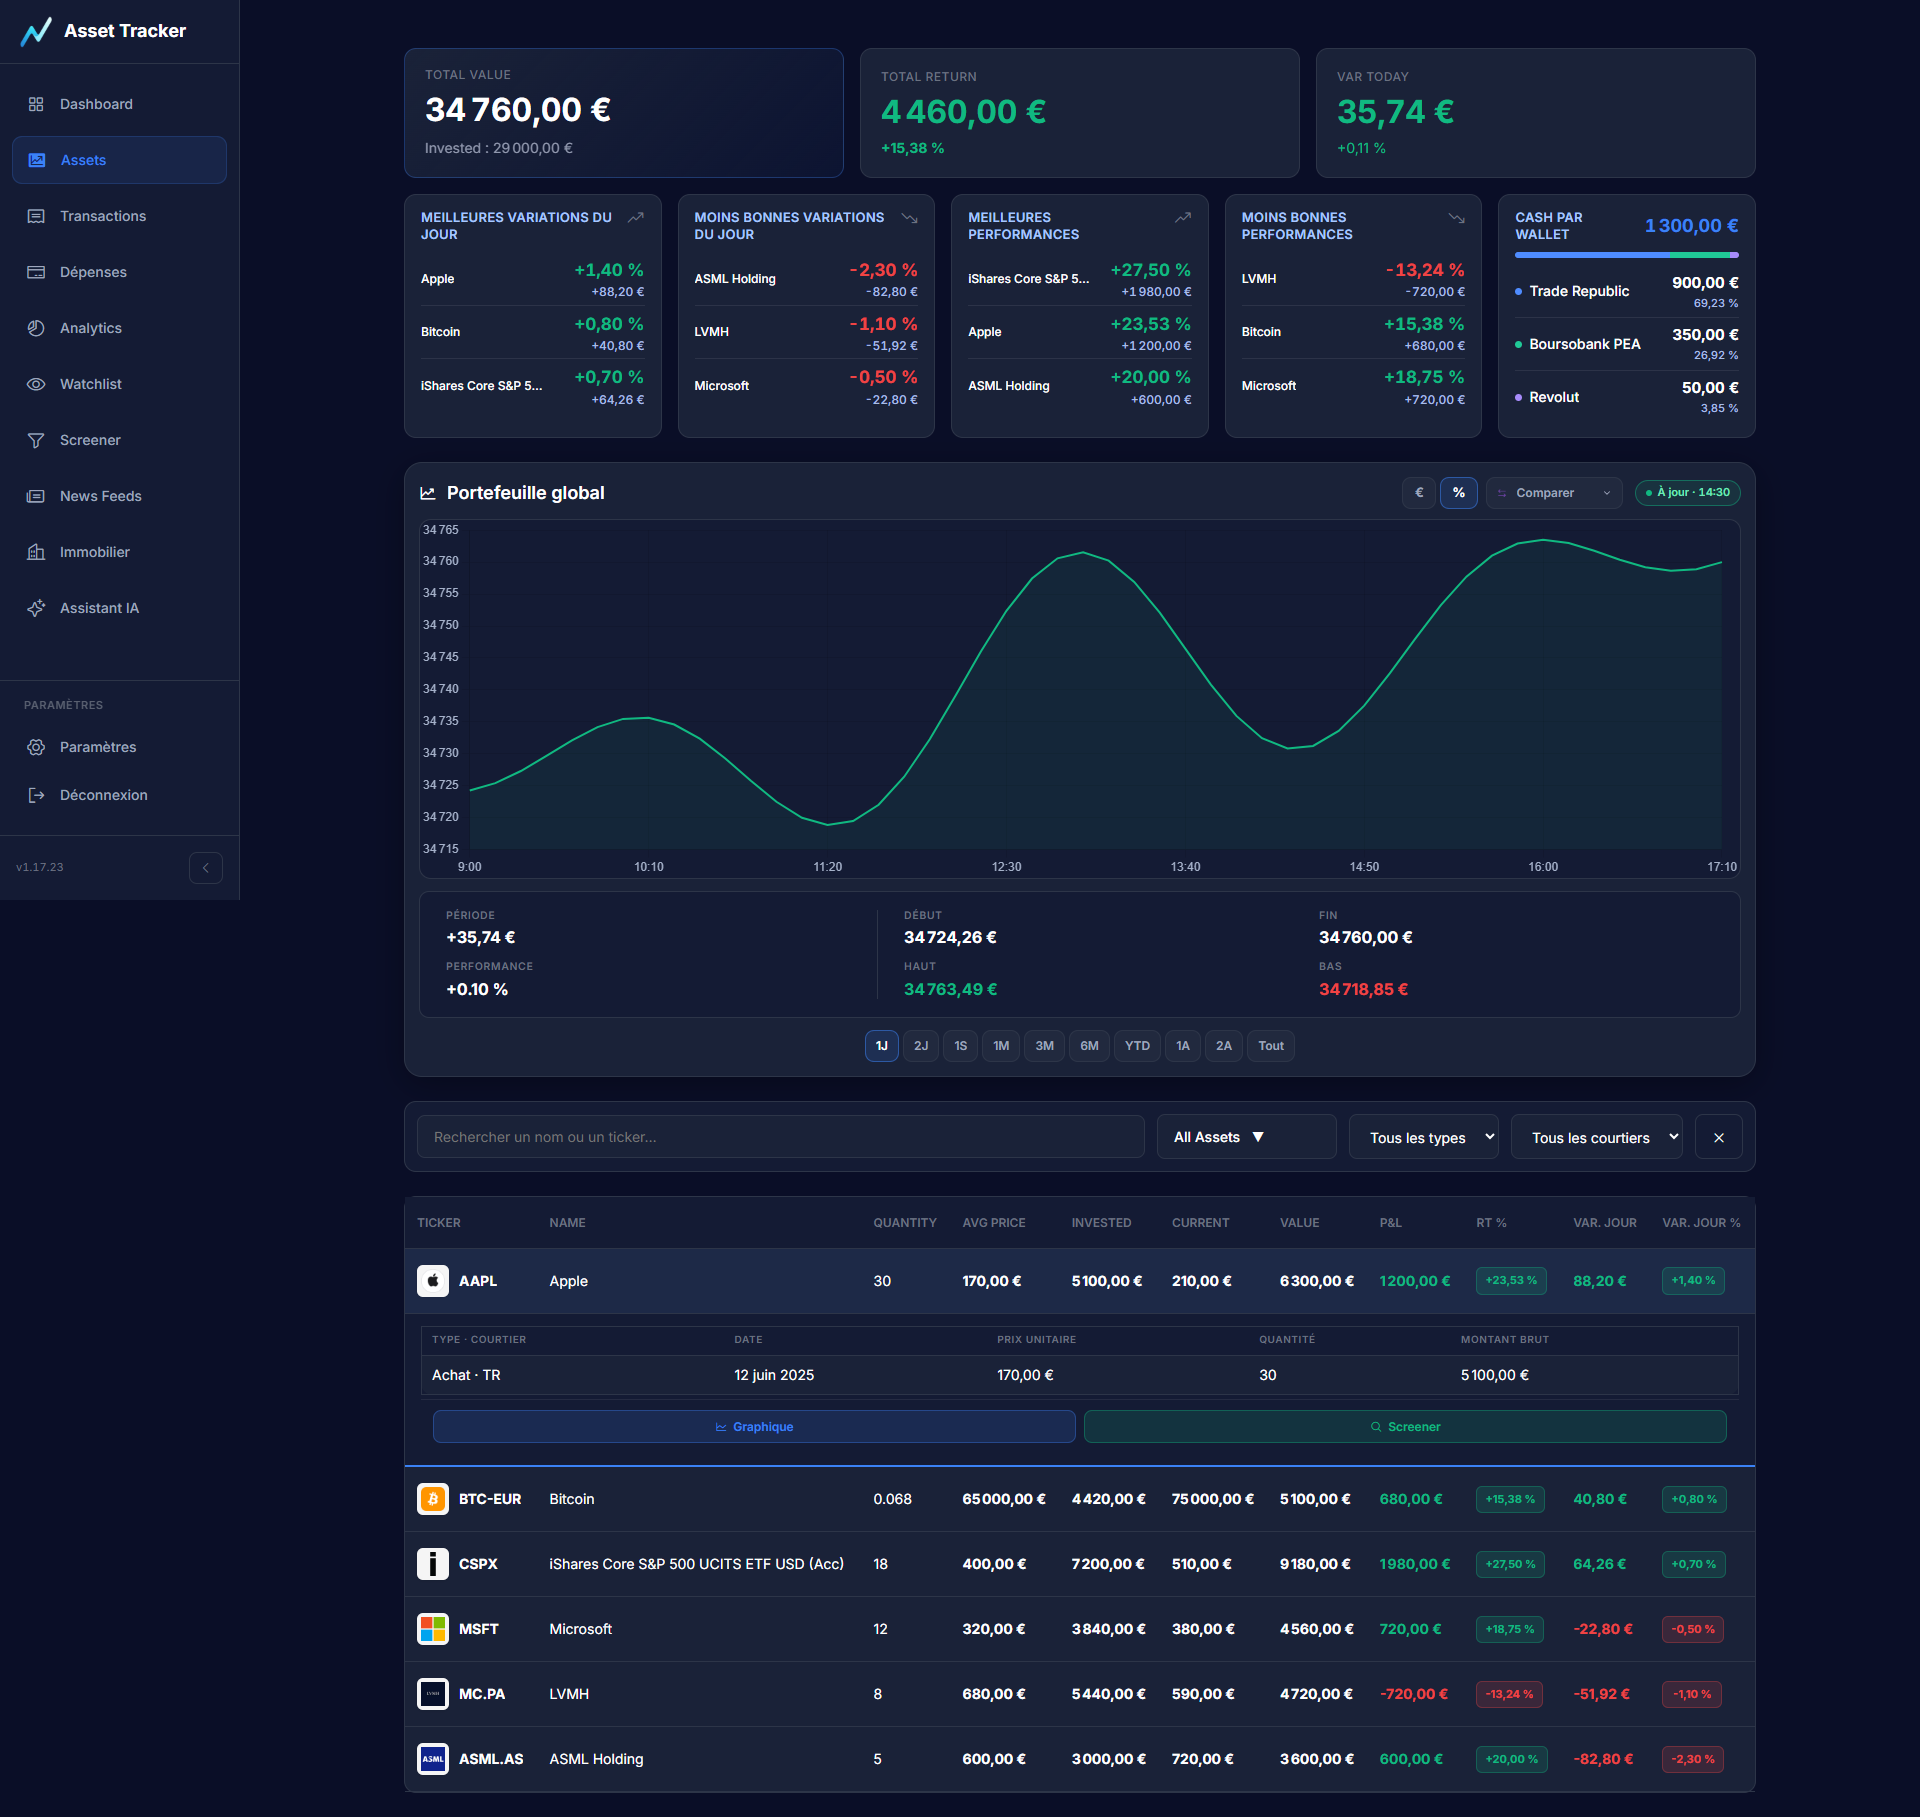
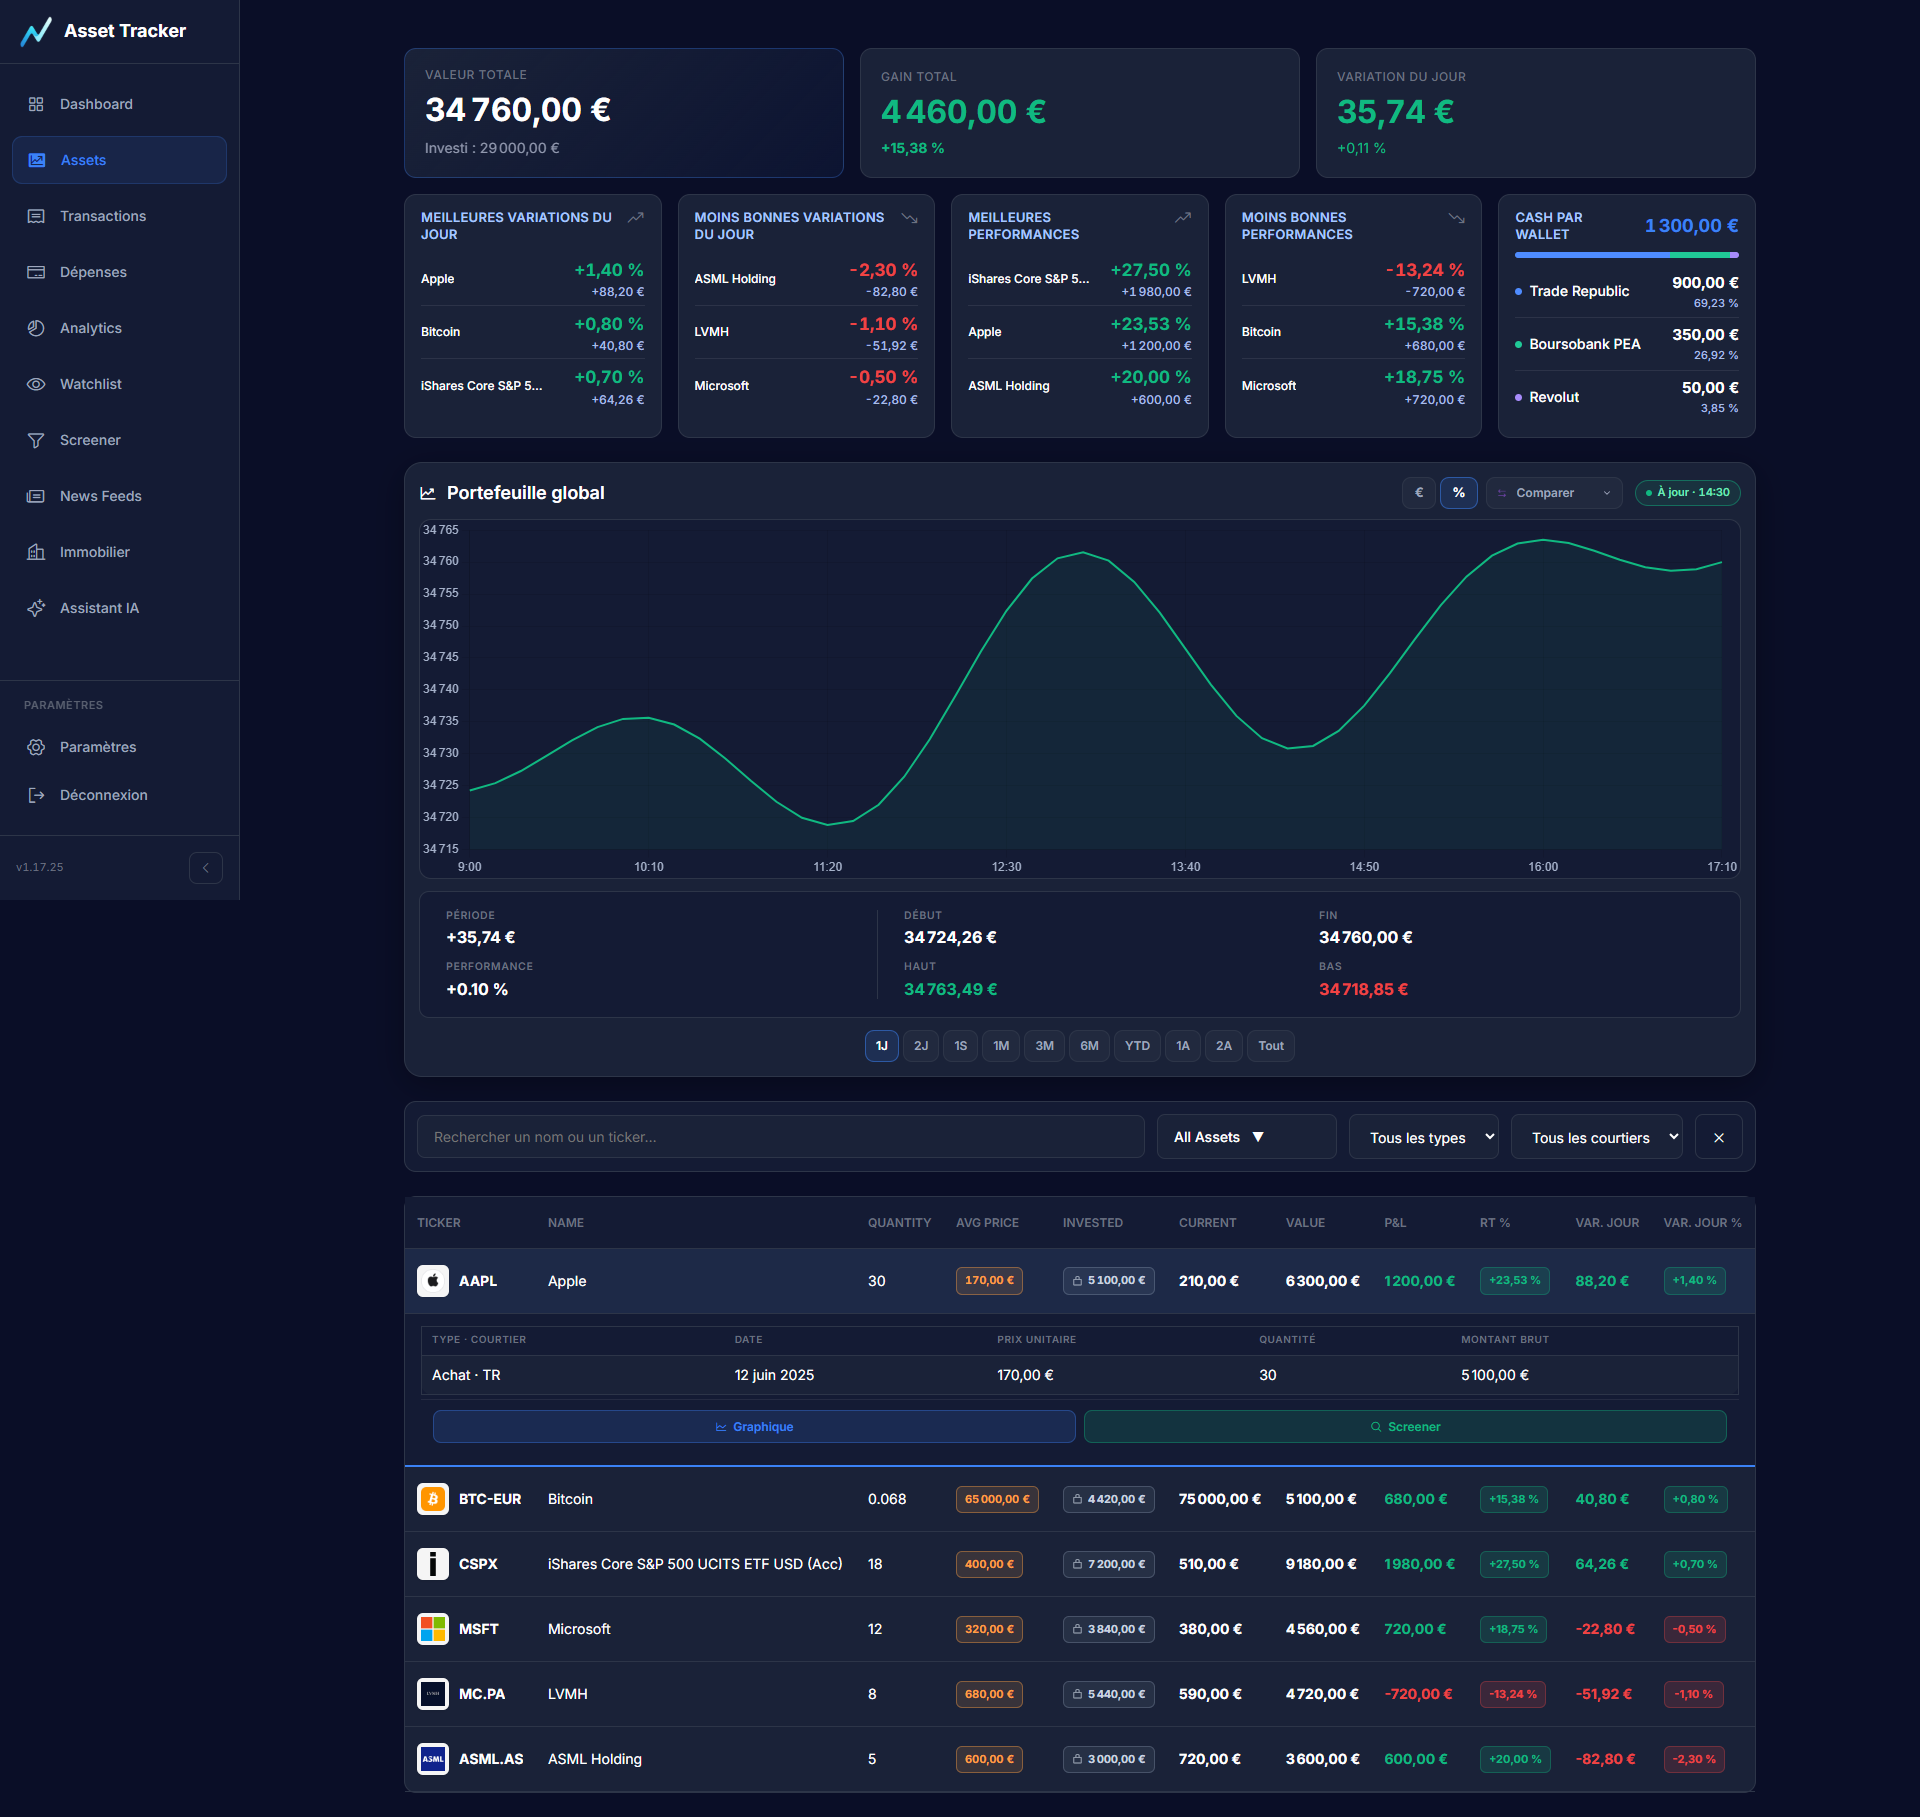
fix claude tab

diff --git a/investments.html b/investments.html
@@ -14,9 +14,9 @@
     <link rel="stylesheet" href="css/variables.css">
     <link rel="stylesheet" href="css/layout.css?v=51">
     <link rel="stylesheet" href="css/components.css?v=3">
-    <link rel="stylesheet" href="css/investments.css?v=67">
+    <link rel="stylesheet" href="css/investments.css?v=69">
     <link rel="stylesheet" href="css/investments-mobile.css?v=11">
-    <link rel="stylesheet" href="css/investments-table-compact.css?v=7">
+    <link rel="stylesheet" href="css/investments-table-compact.css?v=8">
     <link rel="stylesheet" href="css/chart-toolbar.css?v=9">
 
     <link rel="preconnect" href="https://fonts.googleapis.com">
@@ -250,15 +250,15 @@
             <table id="investments-table">
                 <thead>
                     <tr>
+                        <th data-sort="name">ACTIF</th>
                         <th data-sort="ticker">TICKER</th>
-                        <th data-sort="name">NAME</th>
-                        <th data-sort="quantity">QUANTITY</th>
-                        <th data-sort="avgPrice">AVG PRICE</th>
-                        <th data-sort="invested">INVESTED</th>
-                        <th data-sort="currentPrice">CURRENT</th>
-                        <th data-sort="currentValue">VALUE</th>
-                        <th data-sort="gainEUR">P&L</th>
-                        <th data-sort="gainPct">RT %</th>
+                        <th data-sort="quantity">QUANTITÉ</th>
+                        <th data-sort="avgPrice">PRU</th>
+                        <th data-sort="invested">INVESTI</th>
+                        <th data-sort="currentPrice">COURS</th>
+                        <th data-sort="currentValue">VALEUR</th>
+                        <th data-sort="gainEUR">+/- LATENTE</th>
+                        <th data-sort="gainPct">PERF. %</th>
                         <th data-sort="dayChange" id="day-change-label">VAR. AFFICHÉE</th>
                         <th data-sort="dayPct" id="day-percent-label" data-mobile-label="VAR. AFFICHÉE">VAR. %</th>
                     </tr>

diff --git a/src/investmentsPage.js b/src/investmentsPage.js
@@ -417,8 +417,8 @@ export class InvestmentsPage {
                 </td>
                 <td>${escapeHtml(p.name)}</td>
                 <td>${formatQuantity(p.quantity)}</td>
-                <td>${formatCurrency(p.avgPrice, 'EUR')}</td>
-                <td>${formatCurrency(p.invested, 'EUR')}</td>
+                <td><span class="badge badge-pru" title="Prix de revient unitaire (PRU)">${formatCurrency(p.avgPrice, 'EUR')}</span></td>
+                <td><span class="badge badge-invested" title="Montant engagé dans la position (coût de revient)"><i class="ph ph-lock-simple" aria-hidden="true"></i>${formatCurrency(p.invested, 'EUR')}</span></td>
                 <td>${formatCurrency(p.currentPrice, 'EUR')}</td>
                 <td>${formatCurrency(p.currentValue, 'EUR')}</td>
                 <td class="${p.gainEUR > 0 ? 'positive' : p.gainEUR < 0 ? 'negative' : ''}">${formatCurrency(p.gainEUR, 'EUR')}</td>

diff --git a/css/investments.css b/css/investments.css
@@ -65,6 +65,32 @@
     border: 1px solid rgba(148, 163, 184, 0.3);
 }
 
+/* PRU: the orange of the chart's PRU line. */
+.badge-pru {
+    background: rgba(255, 159, 67, 0.13);
+    color: #ff9f43;
+    border: 1px solid rgba(255, 159, 67, 0.4);
+    font-variant-numeric: tabular-nums;
+    white-space: nowrap;
+}
+
+/* Invested: the locked-in cost, greyed. */
+.badge-invested {
+    display: inline-flex;
+    align-items: center;
+    gap: 5px;
+    background: rgba(148, 163, 184, 0.1);
+    color: #cbd5e1;
+    border: 1px solid rgba(148, 163, 184, 0.3);
+    font-variant-numeric: tabular-nums;
+    white-space: nowrap;
+}
+
+.badge-invested i {
+    font-size: 11px;
+    opacity: 0.7;
+}
+
 /* === FILTRE DE TICKER (dropdown) === */
 .filters-container {
     display: flex;

diff --git a/RELEASES.md b/RELEASES.md
@@ -50,6 +50,7 @@ sont pas assimilés à de nouvelles fonctionnalités.
 | `1.17.23` | 2026-10-12 | fix claude visuel chart | — |
 | `1.17.24` | 2026-10-12 | fix claude visuel chart 1 | — |
 | `1.17.25` | 2026-10-12 | fix claude nom kpi main | — |
+| `1.17.26` | 2026-10-12 | fix claude tab | — |
 
 Les messages de commit pilotent les nouvelles versions. Les scripts de
 déploiement ajoutent désormais aussi chaque correctif à ce tableau avant les
